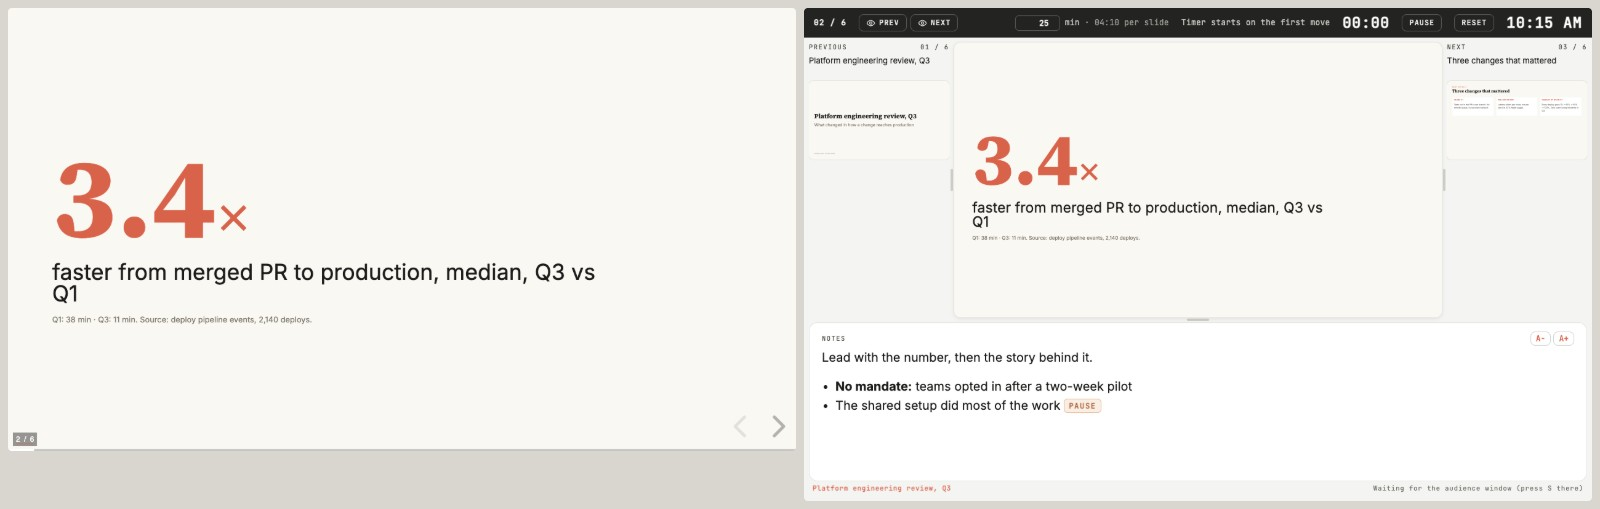
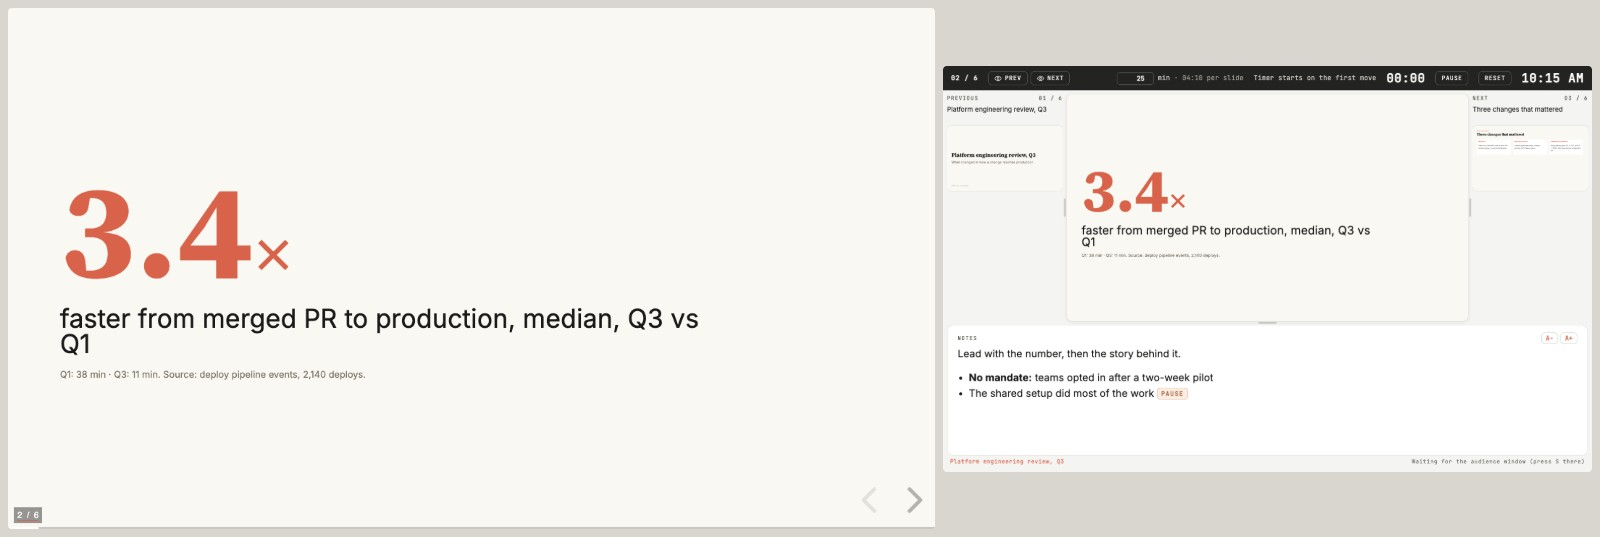
docs(readme): presenter view at 70% of the slide's width in the gallery image
Claude-Session: https://claude.ai/code/session_01Use5ojMtcfhyjtsZHXUdyc

Changed region(s): [[0.0, 0.0, 1.0, 1.0], [0.0312, 0.3242, 0.4375, 0.7073]]

diff --git a/docs/gallery/presenter-sheet.html b/docs/gallery/presenter-sheet.html
@@ -1,3 +1,3 @@
 <!doctype html><html><head><meta charset="utf-8"><title>presenter</title>
-<style>body{margin:0;background:#D9D6CF}.g{display:grid;grid-template-columns:1fr 1fr;gap:8px;padding:8px;width:1600px;box-sizing:border-box;align-items:start}img{width:100%;height:auto;display:block;border-radius:4px}</style>
+<style>body{margin:0;background:#D9D6CF}.g{display:grid;grid-template-columns:1fr 0.7fr;gap:8px;padding:8px;width:1600px;box-sizing:border-box;align-items:center}img{width:100%;height:auto;display:block;border-radius:4px}</style>
 </head><body><div class="g"><img src="/shots/pres-main.png"><img src="/shots/pres-view.png"></div></body></html>
